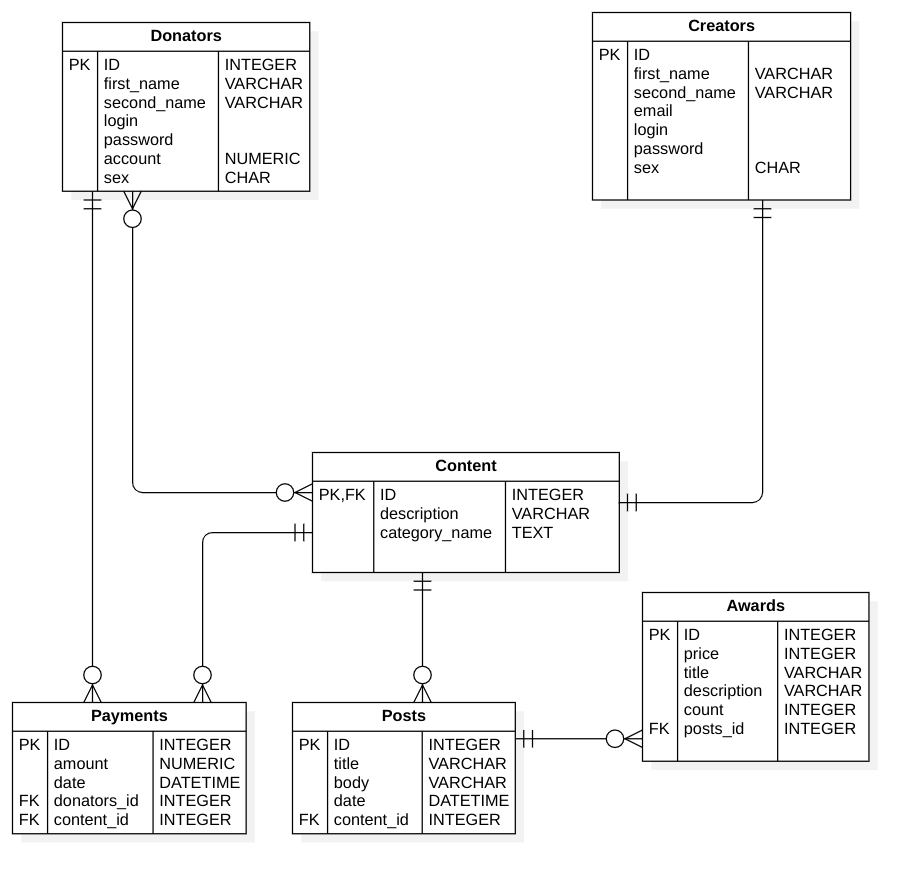
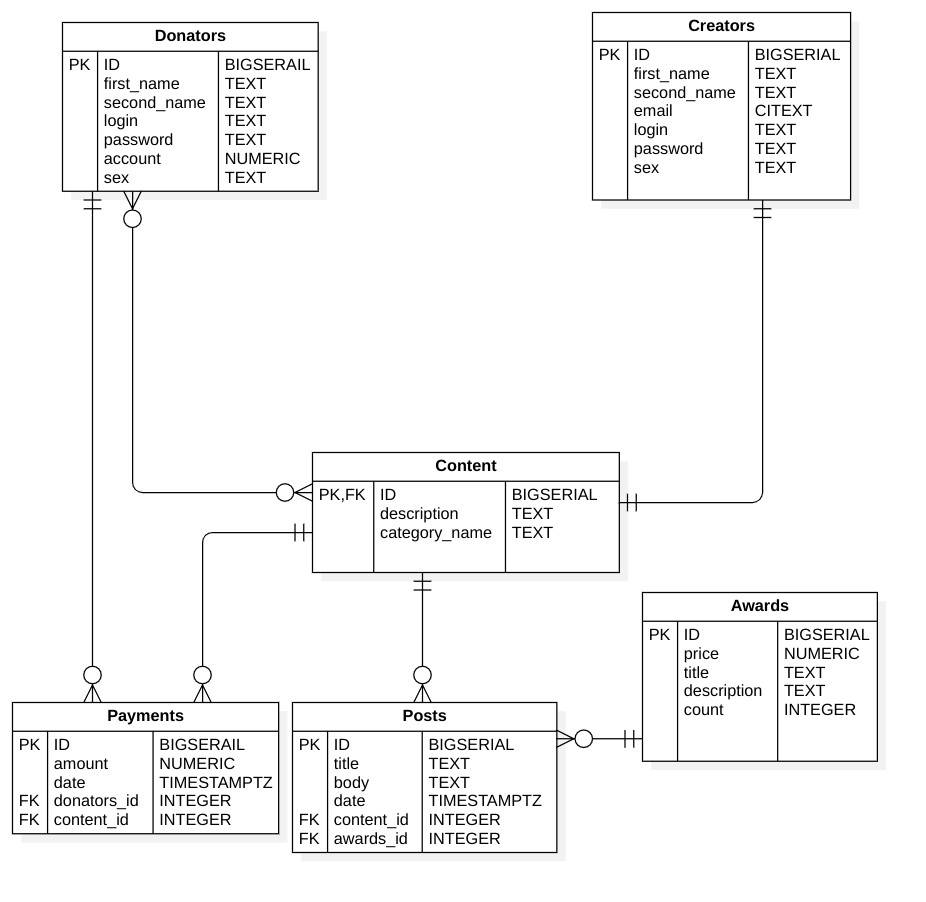
fill db and connect from python

Changed region(s): [[0.0, 0.0306, 0.9455, 0.9479], [0.6405, 0.0, 0.9455, 0.5504]]

diff --git a/labs/lab_01/fill_db.py b/labs/lab_01/fill_db.py
@@ -21,7 +21,7 @@ def generate_donators(count):
     for i in range(count):
         user = faker.simple_profile()
         fio = user['name'].split()
-        donator = [fio[1], fio[0], user['username'], faker.password(), str(faker.random_int(0, 5000)), user['sex']]
+        donator = [i+1, fio[1], fio[0], user['username'], faker.password(), str(faker.random_int(0, 5000)), user['sex']]
         donators.append(donator)
     return donators
 
@@ -31,7 +31,7 @@ def generate_creators(count):
     for i in range(count):
         user = faker.simple_profile()
         fio = user['name'].split()
-        creator = [fio[1], fio[0], user['mail'], user['username'], faker.password(),
+        creator = [i+1, fio[1], fio[0], user['mail'], user['username'], faker.password(),
                    user['sex']]
         creators.append(creator)
     return creators
@@ -42,18 +42,20 @@ def generate_content(count):
     for i in range(count):
         category = faker.word(category_names)
         description = faker.paragraph()
-        content.append([description, category])
+        content.append([i+1, description, category])
     return content
 
 
-def generate_posts(count, count_contents):
+def generate_posts(count, count_contents, count_awards):
     posts = []
     for i in range(count):
         content_id = random.randrange(1, count_contents + 1)
+        awards_id = random.randrange(1, count_awards + 1)
+
         title = faker.sentence()
         body = faker.paragraph()
-        date = faker.date()
-        posts.append([title, body, date, content_id])
+        date = faker.date_time()
+        posts.append([i+1, title, body, date, content_id, awards_id])
     return posts
 
 
@@ -61,22 +63,21 @@ def generate_payments(count, count_content, count_donators):
     payments = []
     for i in range(count):
         amount = faker.random_int(0, 1000 * 5)
-        date = faker.date()
+        date = faker.date_time()
         donators_id = faker.random_int(1, count_donators)
         content_id = faker.random_int(1, count_content)
-        payments.append([amount, date, donators_id, content_id])
+        payments.append([i+1, amount, date, donators_id, content_id])
     return payments
 
 
-def generate_awards(count, count_posts):
+def generate_awards(count):
     awards = []
     for i in range(count):
         price = AWARDS_PRICE[faker.random_int() % len(AWARDS_PRICE)]
         title = faker.sentence()
         description = faker.paragraph()
         count = faker.random_int(1, 100)
-        posts_id = faker.random_int(1, count_posts)
-        awards.append([price, title, description, count, posts_id])
+        awards.append([i+1, price, title, description, count])
     return awards
 
 
@@ -85,7 +86,7 @@ def donators_content(count, count_donators, count_content):
     for i in range(count):
         donator_id = faker.random_int(1, count_donators)
         content_id = faker.random_int(1, count_content)
-        donators_content.append([donator_id, content_id])
+        donators_content.append([i+1, donator_id, content_id])
     return donators_content
 
 
@@ -94,6 +95,7 @@ def main():
         "content": 0,
         "donators": 0,
         "posts": 0,
+        "awards": 0
     }
 
     try:
@@ -105,6 +107,8 @@ def main():
         donators_writer = csv.writer(donators_file, delimiter=',', quotechar='"', quoting=csv.QUOTE_MINIMAL)
         donators = generate_donators(COUNT)
 
+        donators_writer.writerow(["id", "first_name", "second_name", "login", "password", "account", "sex"])
+
         count['donators'] = len(donators)
 
         for i in range(len(donators)):
@@ -113,21 +117,39 @@ def main():
     with open(str(cur_dir + "/creators.csv"), "w") as creators_file:
         creators_writer = csv.writer(creators_file, delimiter=',', quotechar='"', quoting=csv.QUOTE_MINIMAL)
         creators = generate_creators(COUNT)
+        creators_writer.writerow(["id", "first_name", "second_name", "email", "login", "password", "sex"])
+
         for i in range(len(creators)):
             creators_writer.writerow(creators[i])
 
     with open(str(cur_dir + "/content.csv"), "w") as content_file:
         content_writer = csv.writer(content_file, delimiter=',', quotechar='"', quoting=csv.QUOTE_MINIMAL)
         content = generate_content(COUNT)
+        content_writer.writerow(["id", "description", "category_name"])
+
 
         count['content'] = len(content)
 
         for i in range(len(content)):
             content_writer.writerow(content[i])
 
+    with open(str(cur_dir + "/awards.csv"), "w") as awards_file:
+        awards_writer = csv.writer(awards_file, delimiter=',', quotechar='"', quoting=csv.QUOTE_MINIMAL)
+        awards = generate_awards(COUNT)
+
+        awards_writer.writerow(["id", "price", "title", "description", "count"])
+
+
+        count['awards'] = len(awards)
+        for i in range(len(awards)):
+            awards_writer.writerow(awards[i])
+
     with open(str(cur_dir + "/posts.csv"), "w") as posts_file:
         posts_writer = csv.writer(posts_file, delimiter=',', quotechar='"', quoting=csv.QUOTE_MINIMAL)
-        posts = generate_posts(COUNT, count['content'])
+        posts = generate_posts(COUNT, count['content'], count['awards'])
+
+        posts_writer.writerow(["id", "title", "body", "date", "content_id", "awards_id"])
+
 
         count['posts'] = len(posts)
 
@@ -137,19 +159,22 @@ def main():
     with open(str(cur_dir + "/payments.csv"), "w") as payments_file:
         payments_writer = csv.writer(payments_file, delimiter=',', quotechar='"', quoting=csv.QUOTE_MINIMAL)
         payments = generate_payments(COUNT, count['content'], count['donators'])
+        payments_writer.writerow(["id", "amount", "date", "donators_id", "content_id"])
+
+
         for i in range(len(payments)):
             payments_writer.writerow(payments[i])
 
-    with open(str(cur_dir + "/awards.csv"), "w") as awards_file:
-        awards_writer = csv.writer(awards_file, delimiter=',', quotechar='"', quoting=csv.QUOTE_MINIMAL)
-        awards = generate_awards(COUNT, count['posts'])
-        for i in range(len(awards)):
-            awards_writer.writerow(awards[i])
-
     with open(str(cur_dir + "/donators_content.csv"), "w") as donators_content_file:
-        donators_content_writer = csv.writer(donators_content_file, delimiter=',', quotechar='"', quoting=csv.QUOTE_MINIMAL)
+        donators_content_writer = csv.writer(donators_content_file, delimiter=',', quotechar='"',
+                                             quoting=csv.QUOTE_MINIMAL)
         table = donators_content(COUNT, count['donators'], count['content'])
+
+        donators_content_writer.writerow(['id', "donators_id", "content_id"])
+
         for i in range(len(table)):
             donators_content_writer.writerow(table[i])
+
+
 if __name__ == "__main__":
     main()

diff --git a/labs/lab_01/main.py b/labs/lab_01/main.py
@@ -1,27 +1,25 @@
 import json
 
-from psycopg2 import Error
+import psycopg2
+from psycopg2 import OperationalError
 from psycopg2.extensions import ISOLATION_LEVEL_AUTOCOMMIT
 
 cfg = json.load(open("config.json"))
 
 DB_INFO = cfg['db']
-TB_INFO = cfg['table']
 
-import psycopg2
-from psycopg2 import OperationalError
+
 def table_exists(con, table_str):
-
     exists = False
     try:
         cur = con.cursor()
         cur.execute("select exists(select relname from pg_class where relname='" + table_str + "')")
         exists = cur.fetchone()[0]
-        print(exists)
-        # cur.close()
     except psycopg2.Error as e:
         print(e)
     return exists
+
+
 def execute_query(connection, query):
     connection.autocommit = True
     cursor = connection.cursor()
@@ -31,56 +29,56 @@ def execute_query(connection, query):
     except OperationalError as e:
         print(f"The error '{e}' occurred")
 
-def init():
-    try:
-        connection = create_connection(
-            DB_INFO['name'], DB_INFO['user'],
-            DB_INFO['password'], DB_INFO['host'],
-            DB_INFO['port']
-        )
-        connection.set_isolation_level(ISOLATION_LEVEL_AUTOCOMMIT)
 
-        cursor = connection.cursor()
+def connect():
+    connection = psycopg2.connect(
+        user=DB_INFO['user'],
+        password=DB_INFO['password'],
+        host=DB_INFO['host'],
+        port=DB_INFO['port'],
+        database=DB_INFO['name']
+    )
 
-        create_database_query = f"CREATE DATABASE {TB_INFO['name']}"
-        cursor.execute(create_database_query)
-        print(f"table {TB_INFO['name']} successfully created")
-
-    except (Exception, psycopg2.Error) as e:
-        print("err:", e)
-    finally:
-        if connection:
-            cursor.close()
-            connection.close()
-
-def create_connection(db_name, db_user, db_password, db_host, db_port):
-    connection = None
-    try:
-        connection = psycopg2.connect(
-            database=db_name,
-            user=db_user,
-            password=db_password,
-            host=db_host,
-            port=db_port
-        )
-        print("Connection to PostgreSQL DB successful")
-    except OperationalError as e:
-        print(f"The error '{e}' occurred")
+    connection.set_isolation_level(ISOLATION_LEVEL_AUTOCOMMIT)
     return connection
 
 
-def create_database(connection, query):
-    connection.autocommit = True
+def create_database():
+    connection = psycopg2.connect(
+        user=DB_INFO['user'],
+        password=DB_INFO['password'],
+        host=DB_INFO['host'],
+        port=DB_INFO['port']
+    )
+    connection.set_isolation_level(ISOLATION_LEVEL_AUTOCOMMIT)
+
     cursor = connection.cursor()
-    try:
-        cursor.execute(query)
-        print("Query executed successfully")
-    except OperationalError as e:
-        print(f"The error '{e}' occurred")
+
+    print(f"Server version {cursor.fetchone()}")
+
+    create_database_query = f"CREATE DATABASE {DB_INFO['name']}"
+    cursor.execute(create_database_query)
+    print(f"table {DB_INFO['name']} successfully created")
+
+    return connection
 
 
 def main():
-    init()
+    connection = False
+    try:
+        connection = create_database()
+    except psycopg2.Error as e:
+        print(f"[INFO] database {DB_INFO['name']} exist")
+        connection = connect()
+        connection.autocommit = True
+        # with open('query.sql', 'r') as f:
+        #     cursor = connection.cursor()
+        #     cursor.execute("\n".join(f.readlines()))
+        #     print(f"[INFO] database {DB_INFO['name']} successfully filling")
+    finally:
+        if connection:
+            connection.close()
+            print("[INFO] Connection close.")
 
 
 if __name__ == "__main__":
